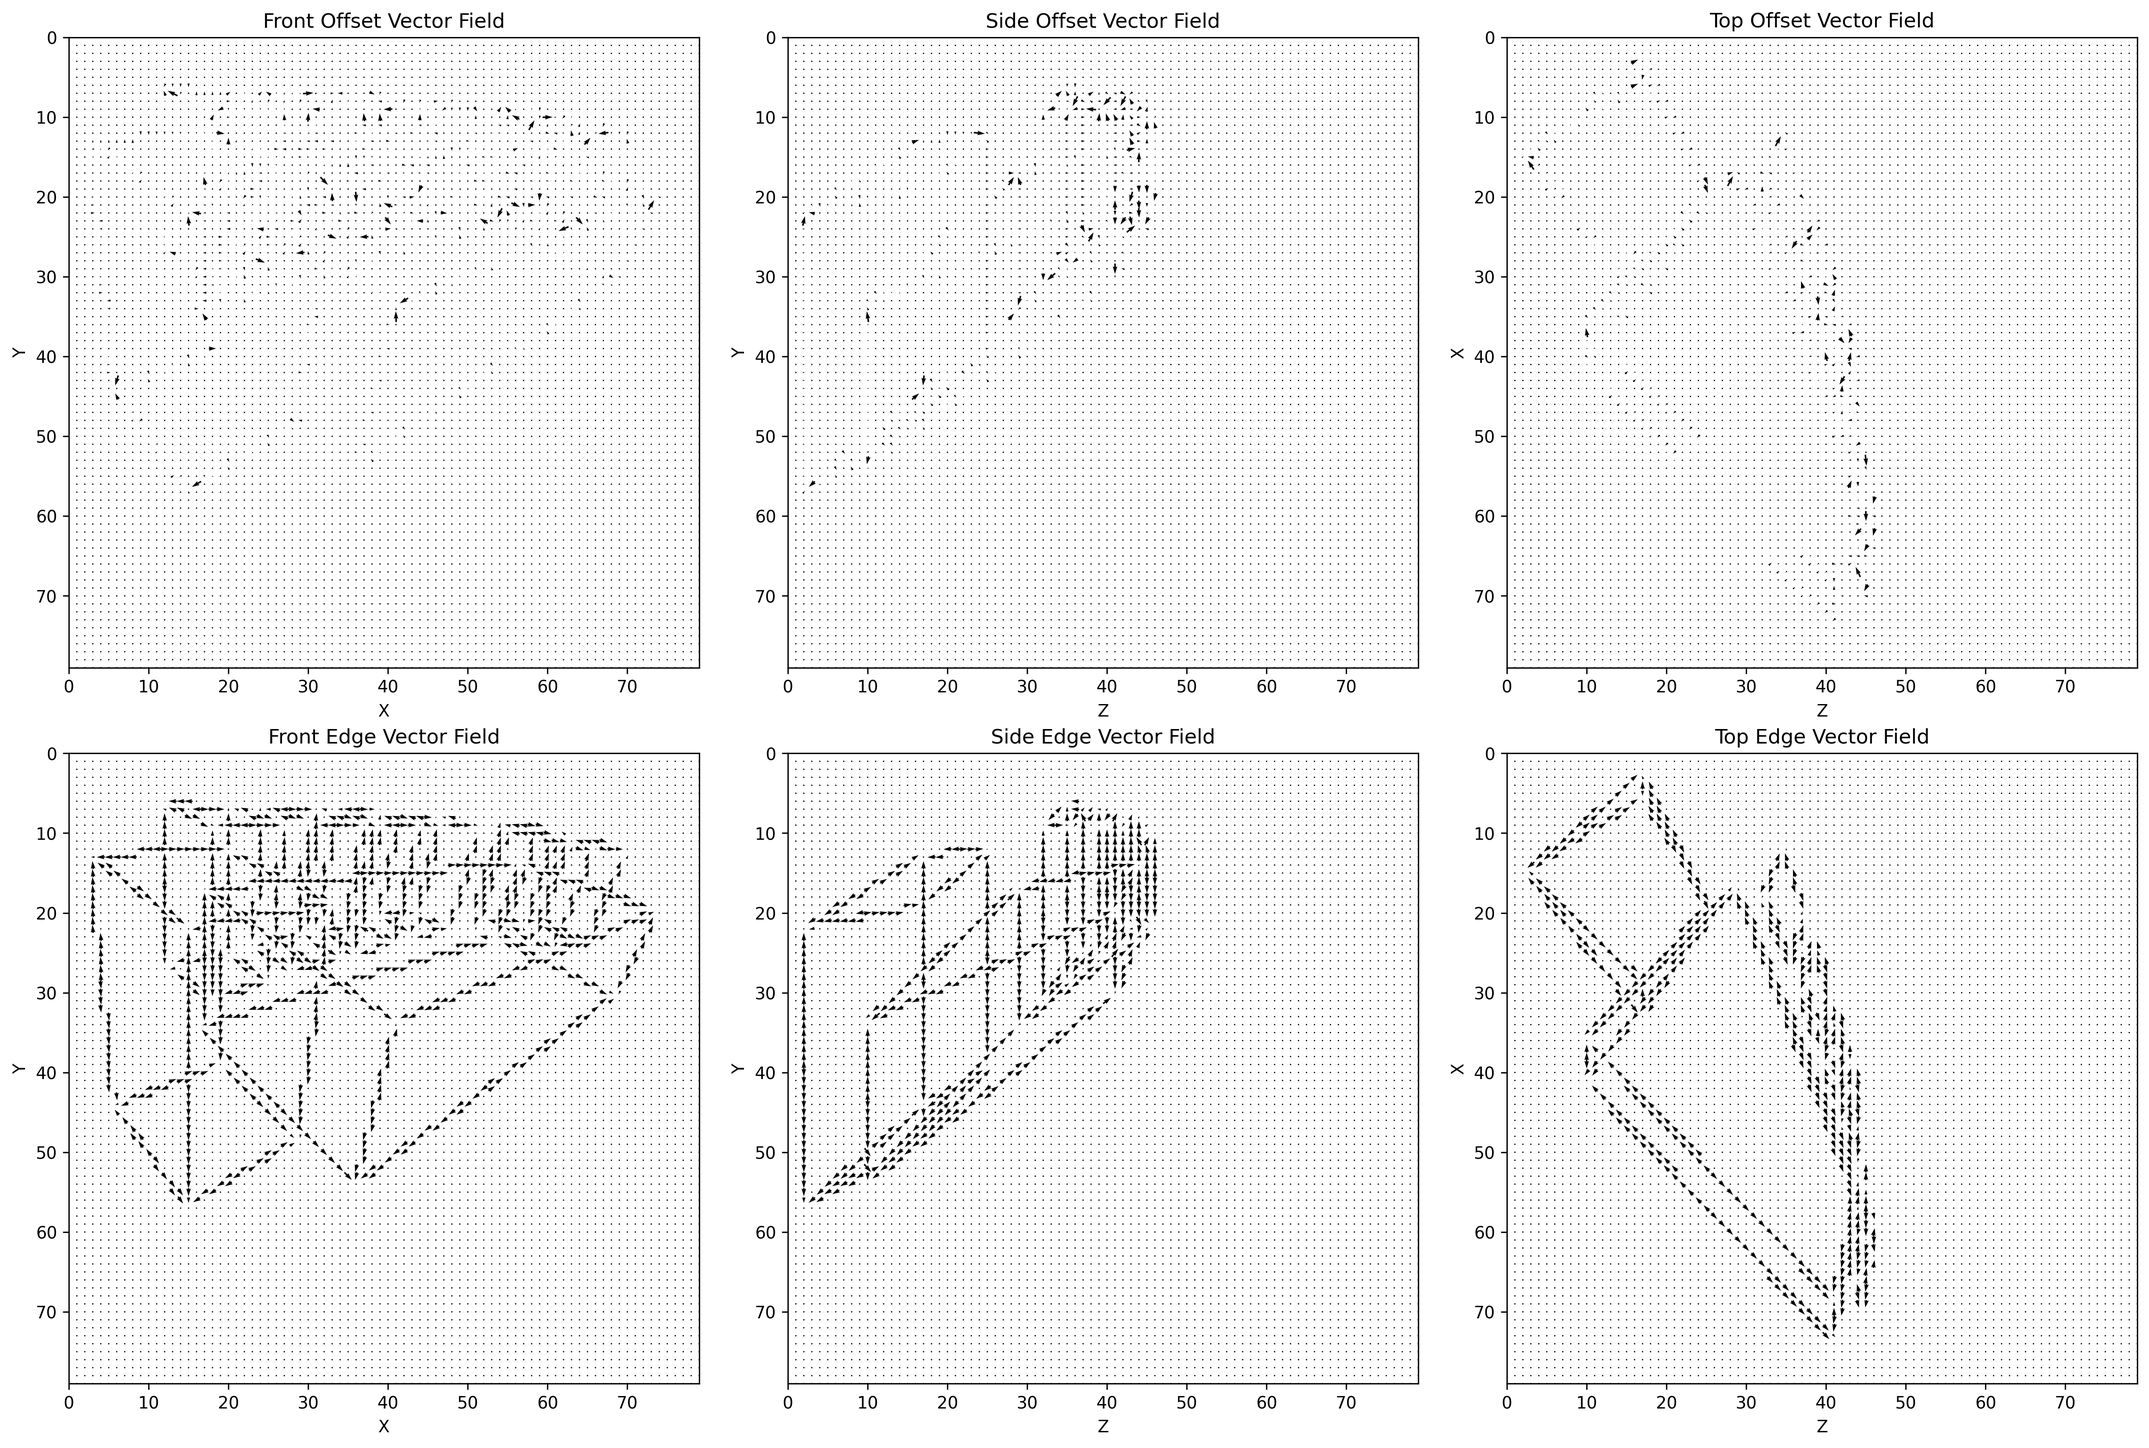
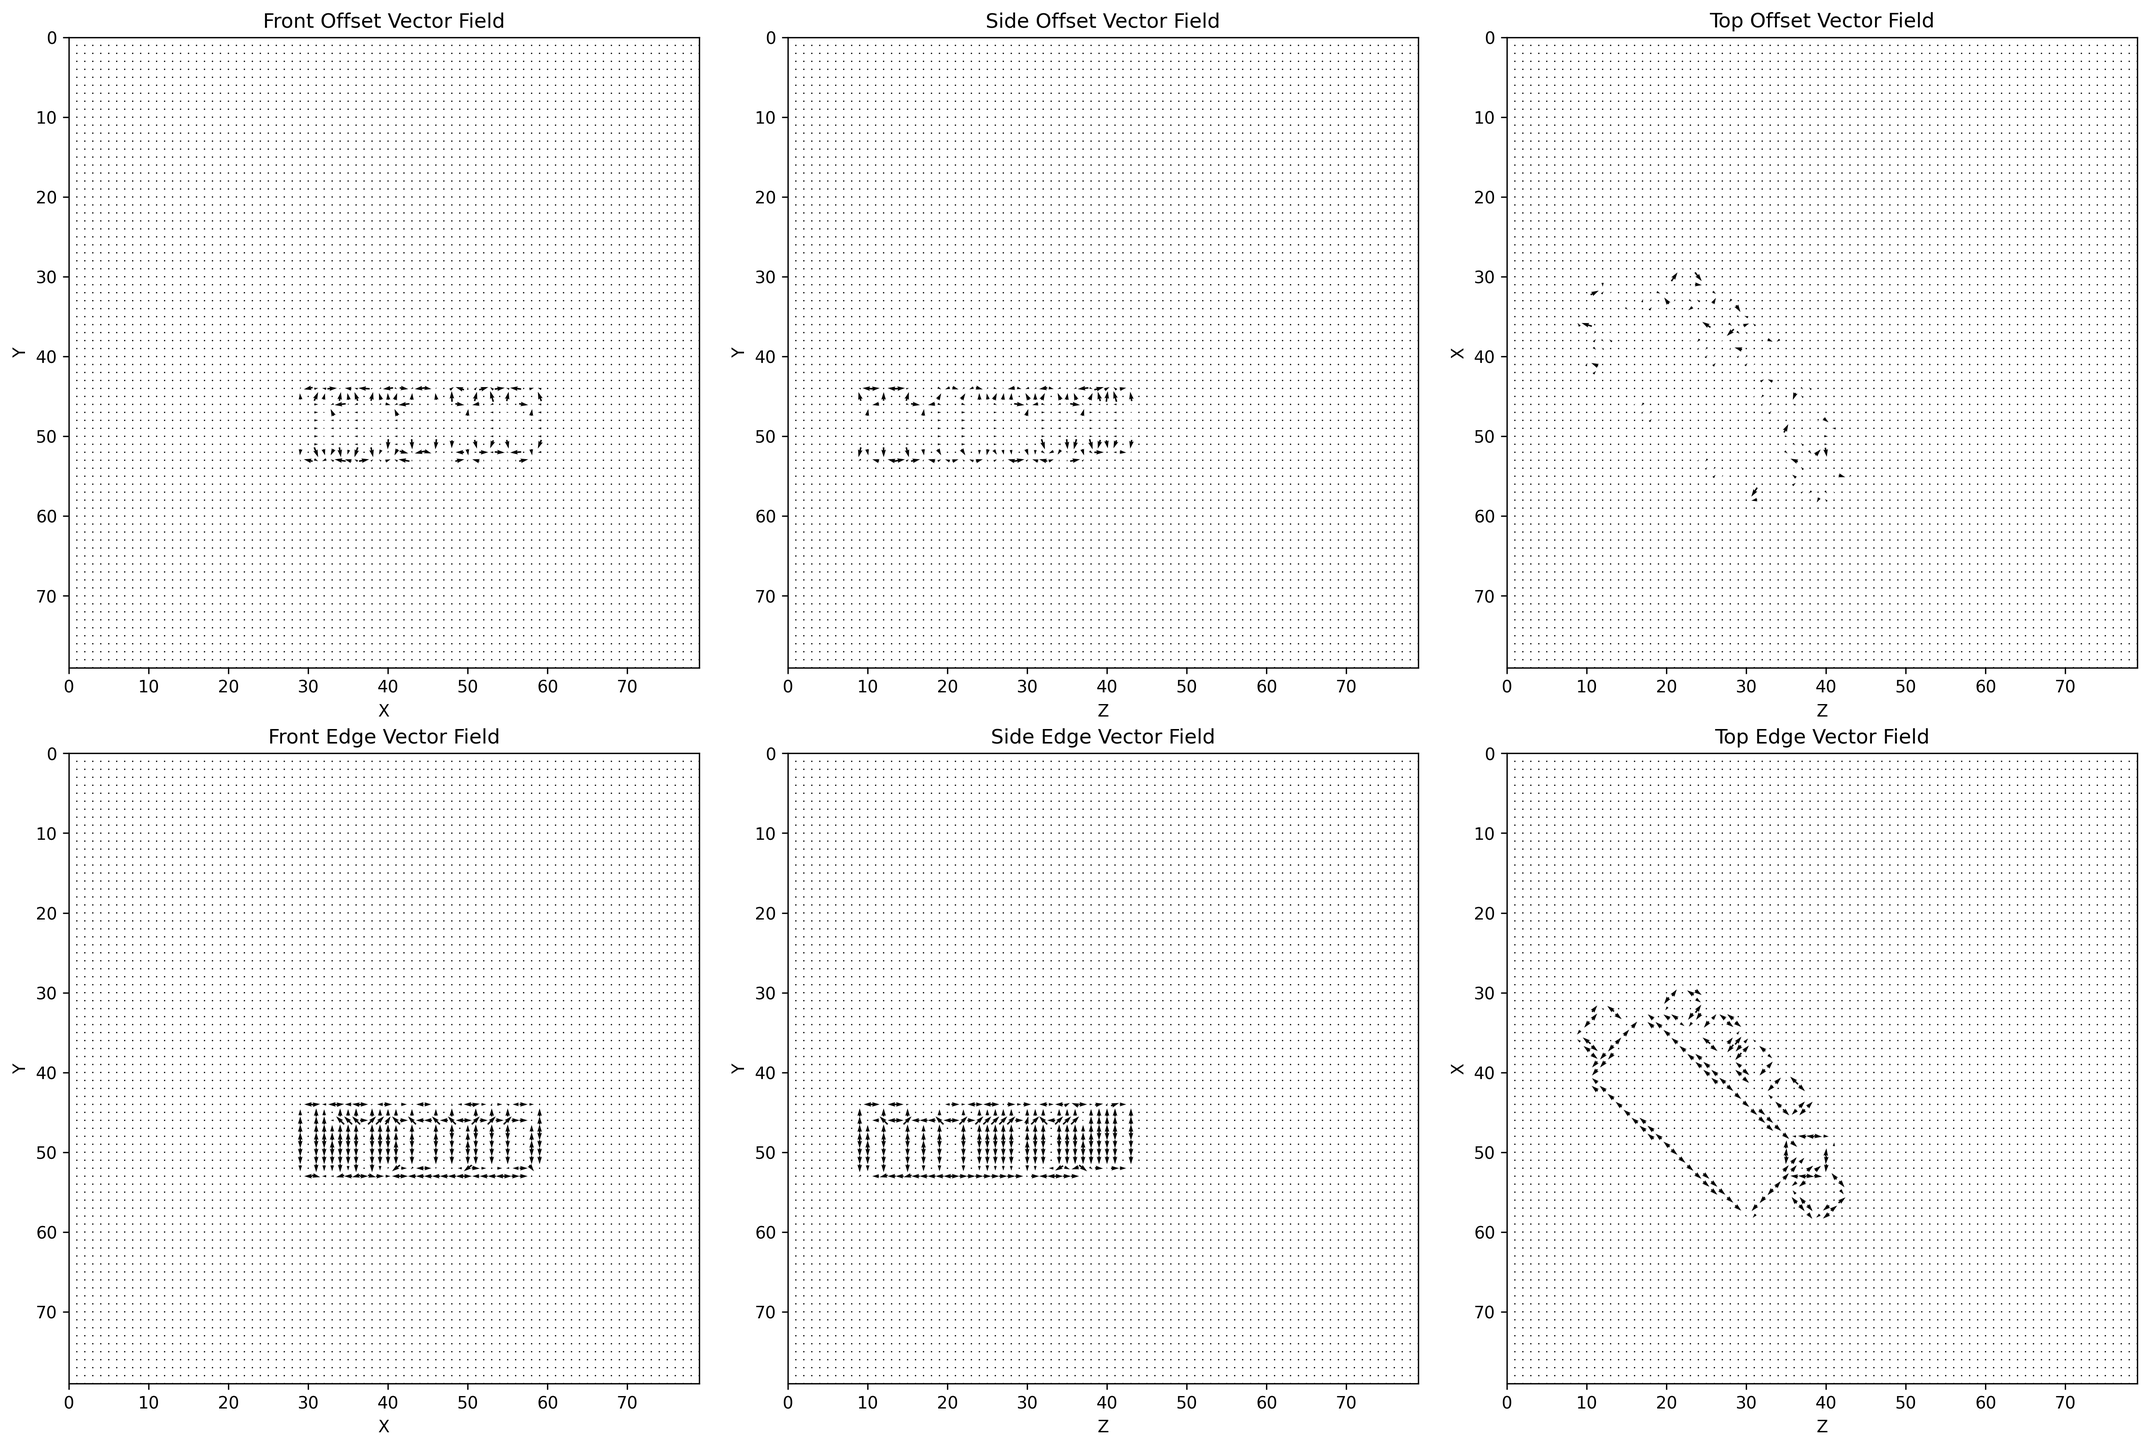
feat: 学習データを平行投影化し6面セグメンテーション・ViT 特徴入力に対応
投影の一貫性を確保するため、学習データの生成を透視投影から平行投影へ変更する。

- ClassNet が疎な6面（xy / yz / zx の各正負方向）セグメンテーション画像を学習
- ViT に ClassNet の特徴を入力し、1段階目から一貫して学習させる構成を追加

diff --git a/yolox/models/classnet.py b/yolox/models/classnet.py
@@ -54,9 +54,14 @@ class ClassNet(nn.Module):
             ConvBNAct(hidden, hidden, k=3, s=1, p=1),
         )
         # 1x1でクラス数へ
-        self.classifier_xy = nn.Conv2d(hidden, self.num_classes, kernel_size=1, bias=True)
-        self.classifier_yz = nn.Conv2d(hidden, self.num_classes, kernel_size=1, bias=True)
-        self.classifier_zx = nn.Conv2d(hidden, self.num_classes, kernel_size=1, bias=True)
+        self.classifier_xyp = nn.Conv2d(hidden, self.num_classes, kernel_size=1, bias=True)
+        self.classifier_yzp = nn.Conv2d(hidden, self.num_classes, kernel_size=1, bias=True)
+        self.classifier_zxp = nn.Conv2d(hidden, self.num_classes, kernel_size=1, bias=True)
+        self.classifier_xym = nn.Conv2d(hidden, self.num_classes, kernel_size=1, bias=True)
+        self.classifier_yzm = nn.Conv2d(hidden, self.num_classes, kernel_size=1, bias=True)
+        self.classifier_zxm = nn.Conv2d(hidden, self.num_classes, kernel_size=1, bias=True)
+
+
 
         self._init_weights()
 
@@ -93,7 +98,7 @@ class ClassNet(nn.Module):
         outputs: torch.Tensor,      # (B, C, H, W)
         category: list[list],     # (B, N)  各オブジェクトのクラスID
         mesh: torch.Tensor,         # (B, N, 6, 4, 3) = (バッチ, オブジェクト, 面, 頂点, xyz)
-        direction: str = 'xy' ,    # 'xy','yz','zx'のいずれか
+        direction: str = 'xyp' ,    # 'xy','yz','zx'のいずれか
         reduction_mag: int = 8,
         bg_id: int = 0,
     ) -> torch.Tensor:
@@ -108,14 +113,17 @@ class ClassNet(nn.Module):
         """
         device = outputs.device
         B, C, H, W = outputs.shape
-        assert direction in ('xy','yz','zx'), "direction must be 'xy','yz' or 'zx'"
-        if direction == 'xy':
+        assert direction in ('xyp','yzp','zxp','xym','yzm','zxm'), "direction must be 'xyp','yzp','zxp','xym','yzm','zxm'"
+        if  'xy' in direction:
             coord_idx1, coord_idx2, coord_idx3 = 0, 1, 2  # x, y, z
-        elif direction == 'yz':
+        elif 'yz' in direction:
             coord_idx1, coord_idx2, coord_idx3 = 2, 1, 0  # y, z, x
-        else:  # 'zx'
+        elif 'zx' in direction:  # 'zx'
             coord_idx1, coord_idx2, coord_idx3 = 2, 0, 1  # z, x, y
-            
+        if 'p' in direction:
+            sign=1
+        else:
+            sign=-1
         # 初期化（背景ID）
         targets = torch.full((B, H, W), int(bg_id), dtype=torch.long, device=device)
 
@@ -137,7 +145,7 @@ class ClassNet(nn.Module):
             # 形状: (N, 6, 4, 3) -> Zだけ抜き出して平均
             
             q_mean = mesh_b[..., coord_idx3].mean(axis=(1, 2))  # (N,)
-            draw_order = np.argsort(-q_mean)  # 降順（奥→手前）
+            draw_order = np.argsort(-q_mean*sign)  # 降順（奥→手前）
 
             # このバッチの targets を一旦CPUで編集（最後にデバイスへ）
             tgt_b = targets[b].cpu()
@@ -176,26 +184,38 @@ class ClassNet(nn.Module):
         
         targets: (B, H, W) - 正解ラベル(クラスIDマップ)
         """
-        targets_xy = self.build_targets_from_mesh(outputs[0], category, mesh,direction="xy", reduction_mag=reduction_mag, bg_id=bg_id)
-        targets_yz = self.build_targets_from_mesh(outputs[1], category, mesh,direction="yz", reduction_mag=reduction_mag, bg_id=bg_id)
-        targets_zx = self.build_targets_from_mesh(outputs[2], category, mesh,direction="zx", reduction_mag=reduction_mag, bg_id=bg_id)
+        targets_xy_p = self.build_targets_from_mesh(outputs[0], category, mesh,direction="xyp", reduction_mag=reduction_mag, bg_id=bg_id)
+        targets_xy_m = self.build_targets_from_mesh(outputs[1], category, mesh,direction="xym", reduction_mag=reduction_mag, bg_id=bg_id)
+        targets_yz_p = self.build_targets_from_mesh(outputs[2], category, mesh,direction="yzp", reduction_mag=reduction_mag, bg_id=bg_id)
+        targets_yz_m = self.build_targets_from_mesh(outputs[3], category, mesh,direction="yzm", reduction_mag=reduction_mag, bg_id=bg_id)
+        targets_zx_p = self.build_targets_from_mesh(outputs[4], category, mesh,direction="zxp", reduction_mag=reduction_mag, bg_id=bg_id)
+        targets_zx_m = self.build_targets_from_mesh(outputs[5], category, mesh,direction="zxm", reduction_mag=reduction_mag, bg_id=bg_id)
         
         
-        loss = F.cross_entropy(outputs[0], targets_xy, ignore_index=ignore_index)
-        loss += F.cross_entropy(outputs[1], targets_yz, ignore_index=ignore_index)
-        loss += F.cross_entropy(outputs[2], targets_zx, ignore_index=ignore_index)
+        loss  = F.cross_entropy(outputs[0], targets_xy_p, ignore_index=ignore_index)
+        loss += F.cross_entropy(outputs[1], targets_xy_m, ignore_index=ignore_index)
+        loss += F.cross_entropy(outputs[2], targets_yz_p, ignore_index=ignore_index)
+        loss += F.cross_entropy(outputs[3], targets_yz_m, ignore_index=ignore_index)
+        loss += F.cross_entropy(outputs[4], targets_zx_p, ignore_index=ignore_index)
+        loss += F.cross_entropy(outputs[5], targets_zx_m, ignore_index=ignore_index)
+        
         return loss
     
     
     def forward(self, x, category=None,mesh=None, reduction_mag=None):
         # x: (B, 256, 80, 80)
         feat = self.stem(x)                 # -> (B, hidden, 80, 80)
-        logits_xy = self.classifier_xy(feat)      # -> (B, num_classes, 80, 80)
-        logits_yz = self.classifier_yz(feat)      # -> (B, num_classes, 80, 80)
-        logits_zx = self.classifier_zx(feat)      # -> (B, num_classes, 80, 80)
+        logits_xyp = self.classifier_xyp(feat)      # -> (B, num_classes, 80, 80)
+        logits_xym = self.classifier_xym(feat)      # -> (B, num_classes, 80, 80)
+        logits_yzp = self.classifier_yzp(feat)      # -> (B, num_classes, 80, 80)
+        logits_yzm = self.classifier_yzm(feat)      # -> (B, num_classes, 80, 80)
+        logits_zxp = self.classifier_zxp(feat)      # -> (B, num_classes, 80, 80)
+        logits_zxm = self.classifier_zxm(feat)      # -> (B, num_classes, 80, 80)
         #結合
-        logits = torch.stack([logits_xy,logits_yz,logits_zx],dim=0) #(3,B,num_classes,80,80)
-        probs = torch.softmax(logits_xy, dim=2)   # 確率が欲しいとき
+        logits = torch.stack([logits_xyp,logits_xym,
+                              logits_yzp,logits_yzm,
+                              logits_zxp,logits_zxm],dim=0) #(3,B,num_classes,80,80)
+        probs = torch.softmax(logits_xyp, dim=2)   # 確率が欲しいとき
         #pred  = logits.argmax(dim=1)           # ラベルマップが欲しいとき
         
         if self.training:

diff --git a/yolox/models/yolo3d.py b/yolox/models/yolo3d.py
@@ -21,15 +21,15 @@ class YOLOx3D(nn.Module):
         """
         学習に使わずにモニタ用の値だけ計算（勾配なし）。
         """
-        loss_class_m, _ = self.classnet(fpn0, targets["category"], targets["mesh"], 8)
-        loss_2D_m, loss_offset2D_m, loss_target2D_m, pafs_m,features_m = self.meshnet(fpn0, targets["mesh"], 8)
+        loss_class_m,probs,cls_feat = self.classnet(fpn0, targets["category"], targets["mesh"], 8)
+        #loss_2D_m, loss_offset2D_m, loss_target2D_m, pafs_m,features_m = self.meshnet(fpn0, targets["mesh"], 8)
         loss_3D_m, loss_offset3D_m, loss_target3D_m, loss_chamfer_m, loss_3DIoU_m = \
-            self.coordinate3d(features_m[-1], targets["mesh"], 8)
+            self.coordinate3d(cls_feat, targets["mesh"], 8)
         return dict(
             loss_class=loss_class_m,
-            loss_2D=loss_2D_m,
-            loss_offset2D=loss_offset2D_m,
-            loss_target2D=loss_target2D_m,
+            #loss_2D=loss_2D_m,
+            #loss_offset2D=loss_offset2D_m,
+            #loss_target2D=loss_target2D_m,
             loss_3D=loss_3D_m,
             loss_offset3D=loss_offset3D_m,
             loss_target3D=loss_target3D_m,
@@ -50,26 +50,26 @@ class YOLOx3D(nn.Module):
             # 学習: backbone, meshnet,classnet
             unfreeze_module(self.classnet, True)
             unfreeze_module(self.backbone, True)
+            unfreeze_module(self.meshnet, True)
+            unfreeze_module(self.coordinate3d, True)
             # 凍結: coordinate3d
-            freeze_module(self.meshnet, True)
-            freeze_module(self.coordinate3d, True)
 
         elif stage == 2:
             # 学習: backbone, meshnet,classnet
             unfreeze_module(self.backbone, True)
             unfreeze_module(self.meshnet, True)
             unfreeze_module(self.classnet, True)
+            unfreeze_module(self.coordinate3d, True)
             # 凍結: coordinate3d
-            freeze_module(self.coordinate3d, True)
             # 凍結: coordinate3d（モニタ用に使っても更新しない）
 
         elif stage == 3:
             # 凍結: backbone, classnet
-            freeze_module(self.backbone, True)
-            freeze_module(self.classnet, True)
-            # 学習: meshnet,coordinate3d
+            unfreeze_module(self.backbone, True)
+            unfreeze_module(self.classnet, True)
             unfreeze_module(self.meshnet, True)
             unfreeze_module(self.coordinate3d, True)
+            # 学習: meshnet,coordinate3d
 
     def forward(self, x, targets=None):
         features = self.backbone(x)
@@ -90,22 +90,29 @@ class YOLOx3D(nn.Module):
 
             if self.stage == 1:
                 # === Stage 1: classnet のみ学習                
-                loss_class, cls_prob, cls_feat = self.classnet(fpn0, targets["category"], targets["mesh"], 8)
-                total_loss = loss_class  # 学習に使うのは2D/PAF系 classだけ
+                loss_class, cls_prob, cls_feat = self.classnet(fpn0, targets["category"], targets["mesh"], 0.1)
+                #total_loss = loss_class  # 学習に使うのは2D/PAF系 classだけ
 
+                loss_2D, loss_offset2D, loss_target2D, _,features = self.meshnet(fpn0,cls_feat, targets["mesh"], 0.1)
+                loss_3D, loss_dict = self.coordinate3d(features, targets["mesh"], 0.1)
+                total_loss = loss_2D + loss_3D +loss_class # 学習に使うのは3D系だけ
+                
+                outputs |= loss_dict
             elif self.stage == 2:
                 # === Stage 2: meshnet classnet  両方で学習（backboneにも勾配は流れる）
-                loss_class, cls_prob, cls_feat = self.classnet(fpn0, targets["category"], targets["mesh"], 8)
-                loss_2D, loss_offset2D, loss_target2D, _,features = self.meshnet(fpn0,cls_feat, targets["mesh"], 8)
-                total_loss = loss_2D+loss_class  
-
+                loss_class, cls_prob, cls_feat = self.classnet(fpn0, targets["category"], targets["mesh"], 0.1)
+                loss_2D, loss_offset2D, loss_target2D, _,features = self.meshnet(fpn0,cls_feat, targets["mesh"], 0.1)
+                loss_3D, loss_dict = self.coordinate3d(features, targets["mesh"], 0.1)
+                total_loss = loss_2D + loss_3D +loss_class # 学習に使うのは3D系だけ
+                
+                outputs |= loss_dict
             else:  # self.stage == 3
                 # === Stage 3: 
-                _, cls_feat = self.classnet(fpn0, targets["category"], targets["mesh"], 8)
-                loss_2D, loss_offset2D, loss_target2D, _,features = self.meshnet(fpn0,cls_feat, targets["mesh"], 8)
-                loss_3D, loss_dict = self.coordinate3d(features, targets["mesh"], 8)
+                loss_class, cls_prob, cls_feat = self.classnet(fpn0, targets["category"], targets["mesh"], 0.1)
+                loss_2D, loss_offset2D, loss_target2D, _,features = self.meshnet(fpn0,cls_feat, targets["mesh"], 0.1)
+                loss_3D, loss_dict = self.coordinate3d(features, targets["mesh"], 0.1)
                 
-                total_loss = loss_2D+loss_3D  # 学習に使うのは3D系だけ
+                total_loss = loss_2D + loss_3D +loss_class # 学習に使うのは3D系だけ
                 outputs |= loss_dict
             outputs |= {
                 "total_loss": total_loss,

diff --git a/yolox/data/datasets/sunrgbd.py b/yolox/data/datasets/sunrgbd.py
@@ -297,18 +297,21 @@ class SUNRGBDDataset(CacheDataset):
 
 
             #res.append(np.array(o3b_new)[faces_all])
-            cube_min = 0 +10
-            cube_max = self.img_size[0]-10
+            cube_min=[-4, -4, 0]
+            cube_max=[ 4-0.1,  4-0.1, 8-0.1]
+            cube_offset =[4,4,0]
             points = o3b.tolist() 
             clipped_points = [] 
             for pt in points: 
                 x, y, z = pt 
                 clipped = [x, y, z] 
                 for i, v in enumerate([x, y, z]): 
-                    if v < cube_min: 
-                        clipped[i] = cube_min 
-                    elif v > cube_max: 
-                        clipped[i] = cube_max 
+                    if v < cube_min[i]: 
+                        clipped[i] = cube_min[i] 
+                    elif v > cube_max[i]: 
+                        clipped[i] = cube_max[i]
+                    clipped[i] += cube_offset[i]
+                    
                 clipped_points.append(clipped)
             res.append(np.array(clipped_points)[faces])
             #debug

diff --git a/yolox/exp/yolox3D_base.py b/yolox/exp/yolox3D_base.py
@@ -182,7 +182,7 @@ class Exp(BaseExp):
         self.print_interval = 10
         # eval period in epoch, for example,
         # if set to 1, model will be evaluate after every epoch.
-        self.eval_interval = 10
+        self.eval_interval = 20
         # save history checkpoint or not.
         # If set to False, yolox will only save latest and best ckpt.
         self.save_history_ckpt = True
@@ -209,7 +209,7 @@ class Exp(BaseExp):
         if getattr(self, "model", None) is None:
             backbone = mobilenetv4FPN()
             classnet = ClassNet(in_channels=128*2, hidden=128*2, num_classes=len(SUNRGBD_CLASSES_21), dropout_p=0.1)
-            meshnet = MeshNet()#transformer_threeviewNet()
+            meshnet = transformer_threeviewNet()
             coordinate3d = TriView2CoordGrid()
             self.model = YOLOx3D(backbone,classnet,meshnet,coordinate3d)
 

diff --git a/yolox/models/transformer_threeview.py b/yolox/models/transformer_threeview.py
@@ -124,7 +124,7 @@ class TriViewPAFTransformer(nn.Module):
     def __init__(
         self,
         learn_uv=False,
-        feat_dim: int = 256+128*2,
+        feat_dim: int = 256+128*0,
         map_size: int = 80,
         num_layers: int = 3,
         num_heads: int = 4,
@@ -169,7 +169,7 @@ class TriViewPAFTransformer(nn.Module):
         """
         feat: (B, 256+128, 80, 80)
         """
-        feat = torch.cat([feat,cls_feat], dim= 1)
+        feat = cls_feat#torch.cat([feat,cls_feat], dim= 1)
         B, C, H, W = feat.shape
         #assert H == self.map_h and W == self.map_w, "backbone出力の空間サイズとpos_embedが一致している必要があります"
 

diff --git a/yolox/models/cgregnet.py b/yolox/models/cgregnet.py
@@ -17,7 +17,7 @@ class TripleViewEncoder(nn.Module):
         super().__init__()
         # 共有畳み込み層
         self.conv_shared = nn.Sequential(
-            nn.Conv2d(128*1, 128, 3, padding=1),
+            nn.Conv2d(128*2, 128, 3, padding=1),
             nn.ReLU(),
             nn.Conv2d(128, 128, 3,stride=1, padding=1),
             nn.ReLU(),
